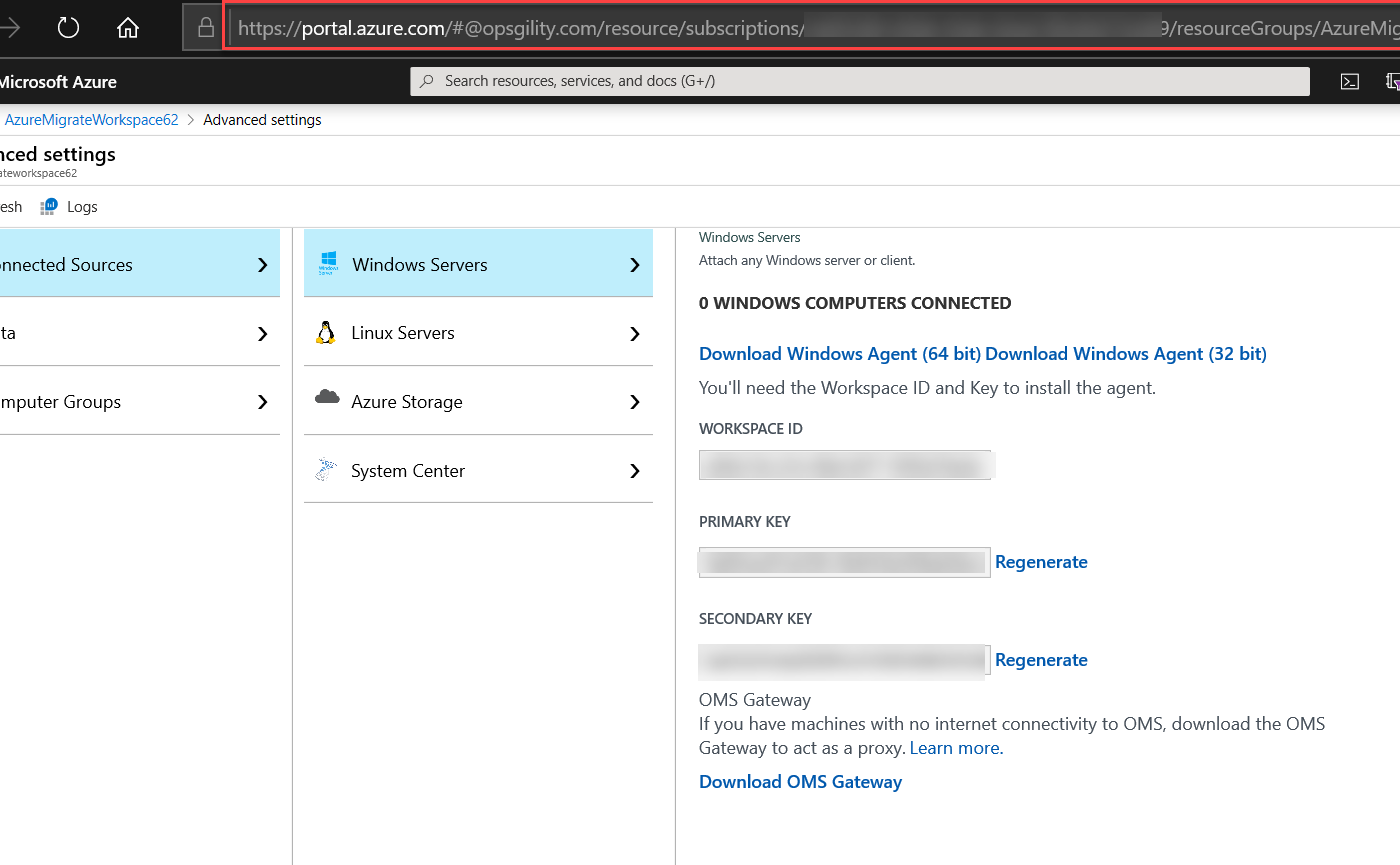
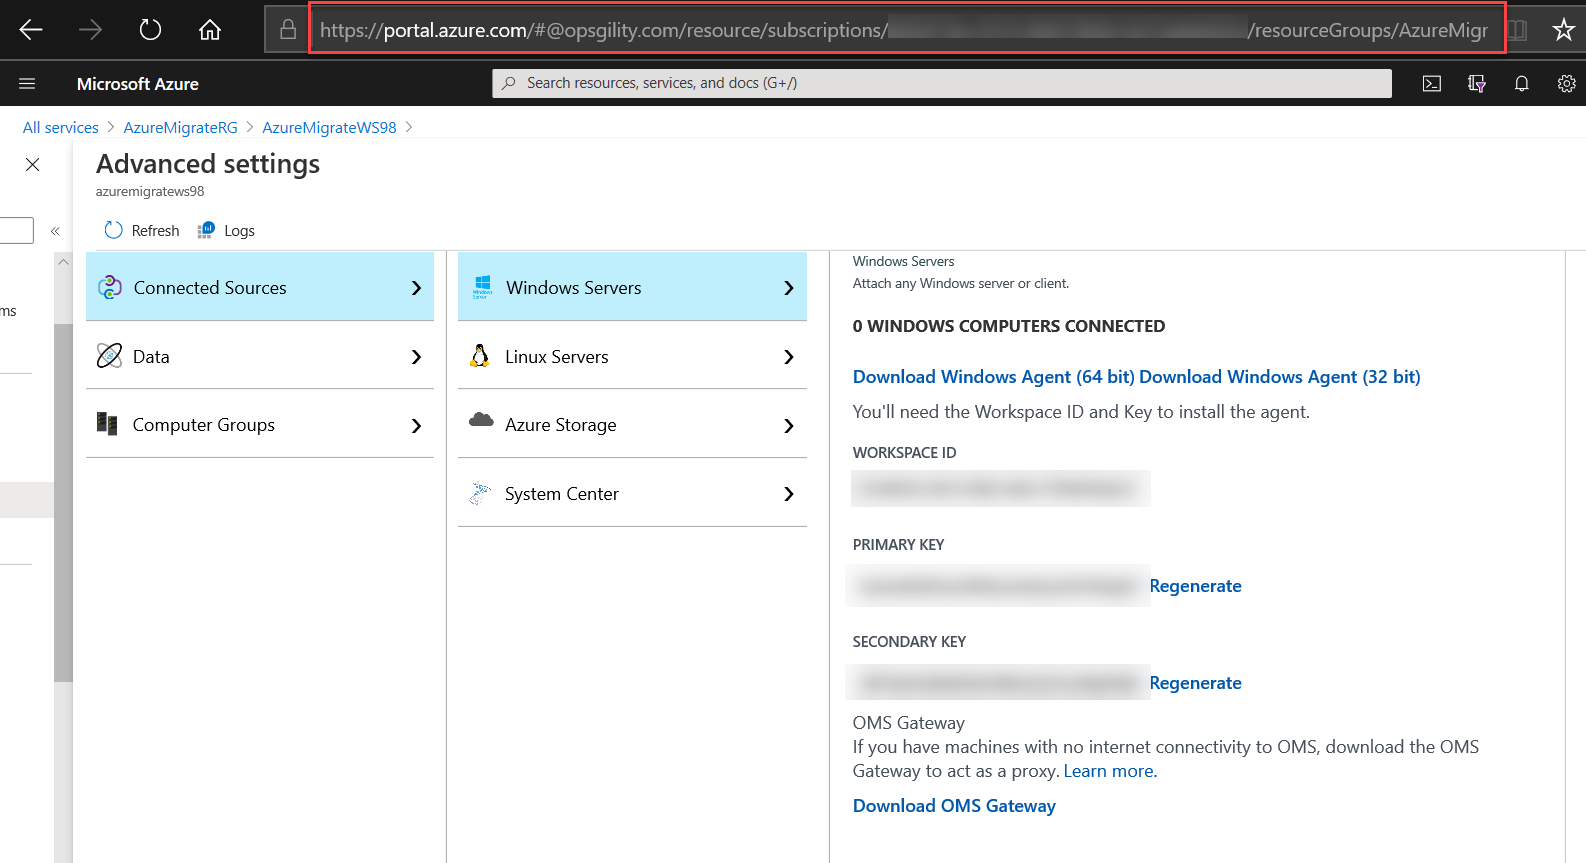
Updated LoB App Migration

Changed region(s): [[0.0, 0.0, 1.0, 1.0], [0.2457, 0.5423, 0.3993, 0.6025]]

diff --git a/Hands-on lab/HOL step-by step - Line-of-business application migration.md b/Hands-on lab/HOL step-by step - Line-of-business application migration.md
@@ -35,29 +35,52 @@ Microsoft and the trademarks listed at <https://www.microsoft.com/en-us/legal/in
   - [Before the hands-on lab](#before-the-hands-on-lab)
   - [Exercise 1: Discover and assess the on-premises environment](#exercise-1-discover-and-assess-the-on-premises-environment)
     - [Task 1: Create the Azure Migrate project and add assessment and migration tools](#task-1-create-the-azure-migrate-project-and-add-assessment-and-migration-tools)
+      - [Task summary](#task-summary)
     - [Task 2: Deploy the Azure Migrate appliance](#task-2-deploy-the-azure-migrate-appliance)
+      - [Task summary](#task-summary-1)
     - [Task 3: Configure the Azure Migrate appliance](#task-3-configure-the-azure-migrate-appliance)
+      - [Task summary](#task-summary-2)
     - [Task 4: Create a migration assessment](#task-4-create-a-migration-assessment)
+      - [Task summary](#task-summary-3)
     - [Task 5: Configure dependency visualization](#task-5-configure-dependency-visualization)
+      - [Task summary](#task-summary-4)
     - [Task 6: Explore dependency visualization](#task-6-explore-dependency-visualization)
+      - [Task summary](#task-summary-5)
+    - [Exercise summary](#exercise-summary)
   - [Exercise 2: Migrate the Application Database](#exercise-2-migrate-the-application-database)
     - [Task 1: Register the Microsoft.DataMigration resource provider](#task-1-register-the-microsoftdatamigration-resource-provider)
+      - [Task summary](#task-summary-6)
     - [Task 2: Create an Azure SQL Database](#task-2-create-an-azure-sql-database)
+      - [Task summary](#task-summary-7)
     - [Task 3: Create the Database Migration Service](#task-3-create-the-database-migration-service)
+      - [Task summary](#task-summary-8)
     - [Task 4: Assess the on-premises database using Data Migration Assistant](#task-4-assess-the-on-premises-database-using-data-migration-assistant)
+      - [Task summary](#task-summary-9)
     - [Task 5: Create a DMS migration project](#task-5-create-a-dms-migration-project)
+      - [Task summary](#task-summary-10)
     - [Task 6: Migrate the database schema](#task-6-migrate-the-database-schema)
+      - [Task summary](#task-summary-11)
     - [Task 7: Migrate the on-premises data](#task-7-migrate-the-on-premises-data)
+      - [Task summary](#task-summary-12)
+    - [Exercise summary](#exercise-summary-1)
   - [Exercise 3: Migrate the application and web tiers using Azure Migrate: Server Migration](#exercise-3-migrate-the-application-and-web-tiers-using-azure-migrate-server-migration)
     - [Task 1: Create a Storage Account](#task-1-create-a-storage-account)
+      - [Task summary](#task-summary-13)
     - [Task 2: Create a Virtual Network](#task-2-create-a-virtual-network)
+      - [Task summary](#task-summary-14)
     - [Task 3: Register the Hyper-V Host with Azure Migrate Server Migration](#task-3-register-the-hyper-v-host-with-azure-migrate-server-migration)
+      - [Task summary](#task-summary-15)
     - [Task 4: Enable Replication from Hyper-V to Azure Migrate](#task-4-enable-replication-from-hyper-v-to-azure-migrate)
+      - [Task summary](#task-summary-16)
     - [Task 5: Configure static internal IP addresses for each VM](#task-5-configure-static-internal-ip-addresses-for-each-vm)
+      - [Task summary](#task-summary-17)
     - [Task 6: Server migration](#task-6-server-migration)
+      - [Task summary](#task-summary-18)
     - [Task 7: Enable Azure Bastion](#task-7-enable-azure-bastion)
     - [Task 8: Configure the database connection](#task-8-configure-the-database-connection)
+      - [Task summary](#task-summary-19)
     - [Task 9: Configure the public IP address and test the SmartHotel application](#task-9-configure-the-public-ip-address-and-test-the-smarthotel-application)
+      - [Task summary](#task-summary-20)
     - [Task 10: Post-migration steps](#task-10-post-migration-steps)
   - [After the hands-on lab](#after-the-hands-on-lab)
     - [Task 1: Clean up resources](#task-1-clean-up-resources)
@@ -132,19 +155,17 @@ In this task, you will create the Azure Migrate project and select the assessmen
 
 1. Open your browser, navigate to **https://portal.azure.com**, and log in with your Azure subscription credentials.
 
-2. Select **All services**, then search for and select **Azure Migrate** to open the Azure Migrate Overview blade, shown below.
+2. Select **All services** in the portal's left navigation, then search for and select **Azure Migrate** to open the Azure Migrate Overview blade, shown below.
 
     ![Screenshot of the Azure Migrate overview blade.](images/Exercise1/azure-migrate-overview.png)
 
-3. Select **Assess and migrate servers**, then **Add tool(s)**, to open the **Add a tool** wizard at the **Migrate project** step.  Select your subscription and create a new resource group named **AzureMigrateRG**. Enter **SmartHotelMigration** as the Migrate project name, and choose a geography close to you to store the migration assessment data.
+3. Select **Assess and migrate servers**, then **Add tool(s)**, to open the **Add a tool** wizard at the **Migrate project** section.  Select your subscription and create a new resource group named **AzureMigrateRG**. Enter **SmartHotelMigration** as the Migrate project name, and choose a geography close to you to store the migration assessment data. Select **Next**.
 
     >**Note**: If you are running this lab in a shared subscription you will need to use a migrate project name that is unique in the subscription. Append characters to the end of migrate project name to make your project name unique. For example: **SmartHotelMigration1234**.
 
     ![Screenshot of the Azure Migrate 'Add a tool' wizard, at the 'Migrate project' step.](images/Exercise1/add-tool-1.png)
 
-    Select **Next**.
-
-4. At the **Select assessment tool** step, select **Azure Migrate: Server Assessment**, then select **Next**.
+4. At the **Select assessment tool** section, select **Azure Migrate: Server Assessment**, then select **Next**.
 
     ![Screenshot of the Azure Migrate 'Add a tool' wizard, at the 'Select assessment tool' step.](images/Exercise1/add-tool-2.png)
 
@@ -152,7 +173,7 @@ In this task, you will create the Azure Migrate project and select the assessmen
 
     ![Screenshot of the Azure Migrate 'Add a tool' wizard, at the 'Select migration tool' step.](images/Exercise1/add-tool-3.png)
 
-6. At the **Review + add tool(s)** step, review the settings and select **Add tool(s)**.
+6. At the **Review + add tool(s)** section, review the settings and select **Add tool(s)**.
 
     ![Screenshot of the Azure Migrate 'Add a tool' wizard, at the 'Review + Add tool(s)' step.](images/Exercise1/add-tool-4.png)
 
@@ -168,13 +189,13 @@ In this task you created an Azure Migrate project, selecting the built-in tools 
 
 In this task, you will deploy and configure the Azure Migrate appliance in the on-premises Hyper-V environment. This appliance communicates with the Hyper-V server to gather configuration and performance data about your on-premises VMs.
 
-1. Select **Discover** under **Azure Migrate: Server Assessment** to open the **Discover machines** blade. Under **Are your machines virtualized?**, select **Yes, with Hyper-V**.
+1. Select **Discover** under **Azure Migrate: Server Assessment** to open the **Discover machines** blade on the right. Under **Are your machines virtualized?**, select **Yes, with Hyper-V**.
 
     ![Screenshot of the Azure Migrate 'Discover machines' blade, with Hyper-V selected.](images/Exercise1/discover-machines.png)
 
     Read through the instructions on how to download, deploy and configure the Azure Migrate appliance. Close the 'Discover machines' blade (do **not** download the .VHD file, it has already been downloaded for you).
 
-2. In a separate browser tab, navigate to the Azure portal. In the global search box, enter **SmartHotelHost** into the search box, then select the **SmartHotelHost** virtual machine.
+2. In a separate browser tab, navigate to the Azure portal. In the global search box, enter **SmartHotelHost**, then select the **SmartHotelHost** virtual machine.
 
     ![Screenshot of the Azure portal search box, searching for the SmartHotelHost virtual machine.](images/Exercise1/find-smarthotelhost.png)
 
@@ -192,7 +213,7 @@ In this task, you will deploy and configure the Azure Migrate appliance in the o
 
 6. At the first step, **Before You Begin**, select **Next**.
 
-7. At the **Locate Folder** step, select **Browse** and navigate to **F:\VirtualMachines\AzureMigrateAppliance** (the folder name may also include a version number), then choose **Select Folder**, then select **Next**.
+7. At the **Locate Folder** step, select **Browse** and navigate to **F:\\VirtualMachines\\AzureMigrateAppliance** (the folder name may also include a version number), then choose **Select Folder**, then select **Next**.
 
     ![Screenshot of the Hyper-V 'Import Virtual Machine' wizard with the F:\VirtualMachines\AzureMigrateAppliance folder selected.](images/Exercise1/import-vm-2.png)
 
@@ -200,7 +221,7 @@ In this task, you will deploy and configure the Azure Migrate appliance in the o
 
 9. At the **Choose Import Type** step, keep the default setting **Register the virtual machine in-place**. Select **Next**.
 
-10. At the **Connect Network** step, you will see an error that the virtual switch previously used by the Azure Migrate appliance could not be found. From the 'Connection' drop down, select the **Azure Migrate Switch**, then select **Next**.
+10. At the **Connect Network** step, you will see an error that the virtual switch previously used by the Azure Migrate appliance could not be found. From the **Connection** drop down, select the **Azure Migrate Switch**, then select **Next**.
 
     ![Screenshot of the Hyper-V 'Import Virtual Machine' wizard at the 'Connect Network' step. The 'Azure Migrate Switch' has been selected.](images/Exercise1/import-vm-4.png)
 
@@ -212,7 +233,7 @@ In this task, you will deploy and configure the Azure Migrate appliance in the o
 
 11. Review the summary page, then select **Finish** to create the Azure Migrate appliance VM.
 
-12. In Hyper-V Manager, select the **AzureMigrateAppliance** VM, then select **Start**.
+12. In Hyper-V Manager, select the **AzureMigrateAppliance** VM, then select **Start** on the left.
 
    ![Screenshot of Hyper-V Manager showing the start button for the Azure Migrate appliance.](images/Exercise1/start-migrate-appliance.png)
 
@@ -224,7 +245,7 @@ In this task you deployed the Azure Migrate appliance in the on-premises Hyper-V
 
 In this task, you will configure the Azure Migrate appliance and use it to complete the discovery phase of the migration assessment.
 
-1. In Hyper-V Manager, select the **AzureMigrateAppliance** VM, then select **Connect**.
+1. In Hyper-V Manager, select the **AzureMigrateAppliance** VM, then select **Connect** on the left.
 
     ![Screenshot of Hyper-V Manager showing the connect button for the Azure Migrate appliance.](images/Exercise1/connect-appliance.png)
 
@@ -232,7 +253,7 @@ In this task, you will configure the Azure Migrate appliance and use it to compl
 
     ![Screenshot of the Azure Migrate appliance showing the license terms.](images/Exercise1/license-terms.png)
 
-3. On the 'Customize settings' screen, set the Administrator password to **demo!pass123** (twice). Then select **Finish**.
+3. On the **Customize settings** screen, set the Administrator password to **demo!pass123** (twice). Then select **Finish**.
 
     > **Note**: When entering the password, the VM uses a US keyboard mapping. If you are using a non-US keyboard, some characters may be entered incorrectly. Select the 'eyeball' icon in the second password entry box to check the password has been entered correctly.
 
@@ -240,9 +261,9 @@ In this task, you will configure the Azure Migrate appliance and use it to compl
 
 4. At the **Connect to AzureMigrateAppliance** prompt, set the appliance screen size using the slider, then select **Connect**.
 
-5. Log in with the Administrator password **demo!pass123** (the login screen may pick up your local keyboard mapping, use the 'eyeball' to check).
+5. Log in with the Administrator password **demo!pass123** (the login screen may pick up your local keyboard mapping, use the 'eyeball' icon to check).
 
-6. **Wait.** After a minute or two, an Internet Explorer windows will open showing the Azure Migrate appliance configuration wizard. If the **Set up Internet Explorer 11** prompt is shown, select **OK** to accept the recommended settings. If the Internet Explorer 'Content from the website listed below is being blocked...' prompt is shown, select **Close** and return to the Azure Migrate Appliance browser tab.
+6. **Wait.** After a minute or two, an Internet Explorer windows will open showing the Azure Migrate appliance configuration wizard. If the **Set up Internet Explorer 11** prompt is shown, select **OK** to accept the recommended settings. If the Internet Explorer **Content from the website listed below is being blocked...** prompt is shown, select **Close** and return to the Azure Migrate Appliance browser tab.
 
     ![Screenshot of the opening step of the Azure Migrate appliance configuration wizard.](images/Exercise1/appliance-config-1.png)
 
@@ -272,7 +293,7 @@ In this task, you will configure the Azure Migrate appliance and use it to compl
 
     The next step is to register the Hyper-V host with the Azure Migrate appliance.
 
-12. Under 'Specify the list of Hyper-V hosts and clusters to discover', select **Add**.
+12. Under **Specify the list of Hyper-V hosts and clusters to discover**, select **Add**.
 
     ![Screenshot of the Azure Migrate appliance configuration wizard, showing the button to add Hyper-V hosts.](images/Exercise1/appliance-config-6.png)
 
@@ -282,15 +303,15 @@ In this task, you will configure the Azure Migrate appliance and use it to compl
 
     ![Screenshot of the Azure Migrate appliance configuration wizard, showing the button to add Hyper-V hosts.](images/Exercise1/appliance-config-7.png)
 
-14. A table shows the SmartHotelHost, with status 'green'. Select **Validate** again, and check the status stays green. Then select **Save and start discovery**.
+14. Below, a table shows the SmartHotelHost, with status 'green'. Select **Validate** again, and check that the status stays green. Then select **Save and start discovery**.
 
     ![Screenshot of the Azure Migrate appliance configuration wizard, showing the Hyper-V host has been added, with the 'Save and start discovery' button enabled.](images/Exercise1/appliance-config-8.png)
 
-15. A message 'Initiating discovery and configuring appliance' is shown.
+15. A message **Initiating discovery and configuring appliance** will appear.
 
     ![Screenshot of the Azure Migrate appliance configuration wizard, showing a progress ticker labelled 'Creating site ant initiating discovery'.](images/Exercise1/appliance-config-9a.png)
 
-16. **Wait** for the Azure Migrate status to show 'Created Site and initiating discovery'. This will take several minutes.
+16. Wait for the Azure Migrate status to show **Initiated discovery and completed appliance configuration**. This will take several minutes.
 
     ![Screenshot of the Azure Migrate appliance configuration wizard, showing a green check mark labelled 'Created Site and initiating discovery'.](images/Exercise1/appliance-config-9b.png)
 
@@ -308,7 +329,7 @@ In this task you configured the Azure Migrate appliance in the on-premises Hyper
 
 In this task, you will use Azure Migrate to create a migration assessment for the SmartHotel application, using the data gathered during the discovery phase.
 
-1. Continuing from Task 3, select **Assess** to start a new migration assessment.
+1. Continuing from Task 3, select **Assess** under **Azure Migrate: Server Assessment** to start a new migration assessment.
 
     ![Screenshot of the Azure Migrate portal blade, with the '+Assess' button highlighted.](images/Exercise1/start-assess.png)
 
@@ -316,11 +337,11 @@ In this task, you will use Azure Migrate to create a migration assessment for th
 
     ![Screenshot of the Azure Migrate 'Assess servers' blade, showing the assessment name.](images/Exercise1/assess-servers-1.png)
 
-3. Under Assessment properties, select **View all**.
+3. Under **Assessment properties**, select **View all**.
 
     ![Screenshot of the Azure Migrate 'Assess servers' blade, with the 'view all' assessment properties link highlighted.](images/Exercise1/assess-servers-2.png)
 
-4. The Assessment properties blade allows you to tailor many of the settings used when making a migration assessment report. Take a few moments to explore the wide range of assessment properties. Hover over the information icons to see more details on each setting. Choose any settings you like, then select **Save**. (You have to make a change for the Save button to be enabled; if you don't want to make any changes, just close the blade.)
+4. The **Assessment properties** blade allows you to tailor many of the settings used when making a migration assessment report. Take a few moments to explore the wide range of assessment properties. Hover over the information icons to see more details on each setting. Choose any settings you like, then select **Save**. (You have to make a change for the Save button to be enabled; if you don't want to make any changes, just close the blade.)
 
     ![Screenshot of the Azure Migrate 'Assessment properties' blade, showing a wide range of migration assessment settings.](images/Exercise1/assessment-properties.png)
 
@@ -332,7 +353,7 @@ In this task, you will use Azure Migrate to create a migration assessment for th
 
     ![Screenshot from Azure Migrate showing the number of assessments as '1'.](images/Exercise1/assessments-refresh.png)
 
-7. Select **Assessments** to see a list of assessments. Then select the actual assessment.
+7. Select **Assessments** under **Azure Migrate: Server Assessment** to see a list of assessments. Then select the actual assessment.
 
     ![Screenshot showing a list of Azure Migrate assessments. There is only one assessment in the list. It has been highlighted.](images/Exercise1/assessment-list.png)
 
@@ -342,11 +363,11 @@ In this task, you will use Azure Migrate to create a migration assessment for th
 
 9. Select **Edit properties**. Note how you can now modify the assessment properties you chose earlier. Change a selection of settings, and **Save** your changes. After a few moments, the assessment report will update to reflect your changes.
 
-10. Select **Azure readiness** (either the chart or the left-nav). Note that for each VM, a specific concern is listed regarding the readiness of the VM for migration.
+10. Select **Azure readiness** (either the chart or on the left navigation). Note that for each VM, a specific concern is listed regarding the readiness of the VM for migration.
 
     ![Screenshot showing the Azure Migrate assessment report on the VM readiness page, with the VM readiness for each VM highlighted.](images/Exercise1/readiness.png)
 
-11. Select **Unsupported boot type** for **smarthotelweb1**. A new browser tab opens showing Azure Migrate documentation. Search for **Unsupported boot type** and note that the issue relates to EFI boot not being supported, and the recommendation to migrate using Azure Migrate Server Migration, which will convert the boot type to BIOS.
+11. Select **Unsupported boot type** for **smarthotelweb1**. A new browser tab opens showing Azure Migrate documentation. Note on the page that the issue relates to EFI boot not being supported, and the recommendation to migrate using Azure Migrate Server Migration, which will convert the boot type to BIOS.
 
     ![Screenshot of Azure documentation showing troubleshooting advice for the 'Unsupported boot type' issue. It states that EFI boot is not supported in Azure, and suggests using Azure Migrate Server Migration for Azure migration since this will convert the boot type to BIOS.](images/Exercise1/unsupported-boot-type-doc.png)
 
@@ -370,15 +391,15 @@ In this task, you will configure the Azure Migrate dependency visualization feat
 
     ![Screenshot showing the SmartHotel VMs group. Each VM has dependency status 'Requires agent installation'.](images/Exercise1/requires-agent-installation.png)
 
-2. On the Dependencies blade, select **Configure OMS workspace**.
+2. On the **Dependencies** blade, select **Configure OMS workspace**.
 
     ![Screenshot of the Azure Migrate 'Dependencies' blade, with the 'Configure OMS Workspace' button highlighted.](images/Exercise1/configure-oms-link.png)
 
-3. Create a new OMS workspace. Use **AzureMigrateWorkspace\<unique number\>** as the workspace name, where \<unique number\> is a random number. Choose a workspace location close to your lab deployment, then select **Configure**.
+3. Create a new OMS workspace. Use **AzureMigrateWS\<unique number\>** as the workspace name, where \<unique number\> is a random number. Choose a workspace location close to your lab deployment, then select **Configure**.
 
     ![Screenshot of the Azure Migrate 'Configure OMS workspace' blade.](images/Exercise1/configure-oms.png)
 
-4. Wait for the workspace to be deployed. Once it is deployed, navigate to it and select **Advanced settings**. Make a note of the **Workspace ID** and **Primary Key** (for example by using Notepad).
+4. Wait for the workspace to be deployed. Once it is deployed, navigate to it and select **Advanced settings** under **Settings** on the left. Make a note of the **Workspace ID** and **Primary Key** (for example by using Notepad).
 
     ![Screenshot of part of the Azure Migrate 'Dependencies' blade, showing the OMS workspace ID and key.](images/Exercise1/workspace-id-key.png)
 
@@ -394,11 +415,11 @@ In this task, you will configure the Azure Migrate dependency visualization feat
 
 8. Open **Internet Explorer**, and paste the link to the portal into the address bar. You may be prompted to sign in again. Choose the 64 bit download link and run the installer. 
 
-    > **Note**: If Internet Explorer does not load the site properly you may need to install Chrome on the VM. 
+    > **Note**: If Internet Explorer does not load the site properly you may need to turn of the **Internet Explorer Enhanced Security Configuration** on **Server Manager** under **Local Server** and install Chrome on the VM to navigate to the link. 
 
     ![Screenshot showing the Internet Explorer prompt to run the installer for the Microsoft Monitoring Agent.](images/Exercise1/mma-win-run.png)
 
-9.  Select through the installation wizard until you get to the **Agent Setup Options** page. From there, select **Connect the agent to Azure Log Analytics (OMS)** and select **Next**. Enter your Workspace ID and Workspace Key on the next page, and select **Azure Commercial** from the Azure Cloud drop-down. Select through the remaining pages and install the agent.
+9. Select through the installation wizard until you get to the **Agent Setup Options** page. From there, select **Connect the agent to Azure Log Analytics (OMS)** and select **Next**. Enter your Workspace ID and Workspace Key that were copied earlier on the next page, and select **Azure Commercial** from the Azure Cloud drop-down. Select through the remaining pages and install the agent.
 
     ![Screenshot of the Microsoft Monitoring Agent install wizard, showing the Log Analytics (OMS) workspace ID and key.](images/Exercise1/mma-wizard.png)
 
@@ -410,7 +431,7 @@ In this task, you will configure the Azure Migrate dependency visualization feat
 
     ![Screenshot showing the Internet Explorer prompt to run the installer for the Dependency Agent.](images/Exercise1/da-win-run.png)
 
-11. Close the virtual machine connection window for the **smarthotelweb1** VM.  Connect to the **smarthotelweb2** VM and repeat the installation process for both agents (the administrator password is the same as for smarthotelweb1).
+11. Close the virtual machine connection window for the **smarthotelweb1** VM.  Connect to the **smarthotelweb2** VM and repeat the installation process (steps 8-10) for both agents (the administrator password is the same as for smarthotelweb1).
 
     You will now deploy the Linux versions of the Microsoft Monitoring Agent and Dependency Agent on the UbuntuWAF VM. To do so, you will first connect to the UbuntuWAF remotely using an SSH session to the IP address of the SmartHotelHost. The SmartHotelHost has been pre-configured with a NAT rule which forwards SSH connections to the UbuntuWAF VM.
 
@@ -442,7 +463,7 @@ In this task, you will configure the Azure Migrate dependency visualization feat
     wget https://raw.githubusercontent.com/Microsoft/OMS-Agent-for-Linux/master/installer/scripts/onboard_agent.sh && sh onboard_agent.sh -w <Workspace ID> -s <Workspace Key>
     ```
 
-17. Enter the following command, substituting \<Workspace ID\> with the value copied previously:
+17. Enter the following command, substituting \<Workspace ID\> with the value copied earlier:
 
     ```s
     /opt/microsoft/omsagent/bin/service_control restart <Workspace ID>

diff --git a/Hands-on lab/Before the HOL - Line-of-business application migration.md b/Hands-on lab/Before the HOL - Line-of-business application migration.md
@@ -86,7 +86,7 @@ Duration: 1 hour 15 minutes
 
 2. Make a note of the public IP address.
 
-3. Open a browser window, and navigate to **http://\<SmartHotelHostIP-Address\>**. You should see the SmartHotel application, which is running on nested VMs within Hyper-V on the SmartHotelHost. (The application doesn't do much: you can refresh the page to see the list of guests or select 'CheckIn' or 'CheckOut' to toggle their status.)
+3. Open a browser tab, and navigate to **http://\<SmartHotelHostIP-Address\>**. You should see the SmartHotel application, which is running on nested VMs within Hyper-V on the SmartHotelHost. (The application doesn't do much: you can refresh the page to see the list of guests or select 'CheckIn' or 'CheckOut' to toggle their status.)
 
     ![Browser screenshot showing the SmartHotel application.](images/BeforeTheHOL/smarthotel.png)
 
